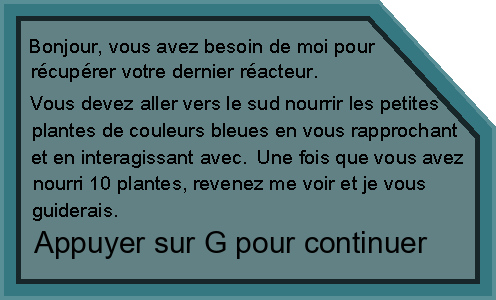
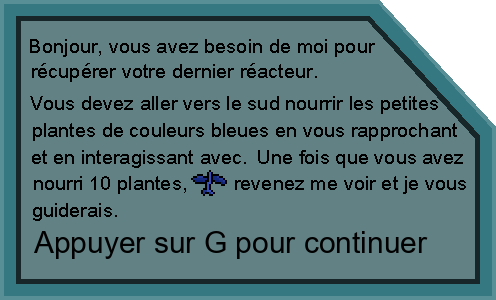
a

Changed region(s): [[0.3931, 0.57, 0.9375, 0.66]]

diff --git a/index.html b/index.html
@@ -77,7 +77,7 @@
                 premierDialogueActif : false,
                 compteurTempsAvantAtaque: 100 ,  
                 tempsAvantAtaque: false,
-                speed: 300,
+                speed: 150,
                 acheterSpeed: false,
                 acheterDash: false,
                 dash: 0,
@@ -280,6 +280,13 @@
             // anim dash
             this.load.spritesheet('animDash','assets/animDash.png',
             { frameWidth: 32, frameHeight: 32 });
+
+            // PNJ intro zone 2
+            this.load.image("PNJIntroZone2", "assets/PNJIntroZone2.png");
+            // collide pnj intro zone 2
+            this.load.image("PNJIntroZone2Collide", "assets/objets/emplacementChangementDeScene/changementScene.png");
+            // textes pnj intro zone 2
+            this.load.image("TexteIntro2eZones", "assets/interface/texte/TexteIntro2eZones.png");
         }
 
         create(){
@@ -840,6 +847,17 @@
 
             this.physics.add.overlap(this.player,this.marchandOverlap,this.parlerMarchand,null,this);
 
+            // pnj intro zone 2
+            this.pnj3 = this.physics.add.image(600, 300, 'PNJIntroZone2');
+            this.pnj3Collide = this.physics.add.image(this.pnj3.x, this.pnj3.y, 'PNJIntroZone2Collide');
+            this.pnj3Collide.body.setSize(32,32)
+            this.pnj3Collide.setPushable(false)
+            this.physics.add.collider(this.player,this.pnj3Collide)
+
+            this.pnj3.body.setSize(48,70)
+            this.pnj3.setOffset(-8,0)
+            this.physics.add.overlap(this.player,this.pnj3,this.parlerPNJ3,null,this);
+
             ///////////////////////////////////////////////////////////////
             /////////////////////////TOUCHES///////////////////////////////
             ///////////////////////////////////////////////////////////////
@@ -1008,11 +1026,17 @@
                 this.vehicule.anims.play('animVehiculeStop', true)
             }
 
-            if (this.quitterVheicule == true){
-                this.coeurEcran.setPosition(306, 161).setScale(0.7);
-                this.monnaieEcran.setPosition(275, 182).setScale(0.4);  
-                this.monnaieTexte.setPosition(286, 174).setScale(0.7)
+            if (this.animVehicule == true){
+                this.coeurEcran.alpha = 0
+                this.monnaieEcran.alpha = 0
+                this.monnaieTexte.alpha = 0
+                this.sabreEcran.alpha = 0
+                this.carteMagnetiqueEcran.alpha = 0
+                this.reacteursEcranBackground.alpha = 0
+                this.reacteur1Ecran.alpha = 0
+            }
 
+            if (this.quitterVheicule == true){
                 this.entrerActif = false
                 this.cameras.main.startFollow(this.player); 
                 this.cameras.main.zoom = 3
@@ -1021,6 +1045,16 @@
                 this.animVehicule = false
                 this.physics.add.collider(this.player, this.vehicule);
                 this.vehicule.setPushable(false)
+            }
+
+            if (this.animVehicule == false){
+                this.coeurEcran.alpha = 1
+                this.monnaieEcran.alpha = 1
+                this.monnaieTexte.alpha = 1
+                this.sabreEcran.alpha = 1
+                this.carteMagnetiqueEcran.alpha = 1
+                this.reacteursEcranBackground.alpha = 1
+                this.reacteur1Ecran.alpha = 1
             }
 
             // timer pour l'invulnérabilité
@@ -1276,7 +1310,6 @@
                     this.dialogue = false
                 }
 
-                console.log(this.dialogue)
 
             this.barreDeVie()
         }
@@ -1396,8 +1429,8 @@
                 if (this.animVehicule == true){
                     this.cameras.main.startFollow(vehicule); 
                     this.cameras.main.zoom = 2
-                    this.player.x = this.vehicule.x
-                    this.player.y = this.vehicule.y
+                    this.player.x = this.vehicule.x - 20
+                    this.player.y = this.vehicule.y - 20
                 }
                 if (vehicule.x > 1200){
                     this.player.x = this.vehicule.x + 160
@@ -1542,7 +1575,7 @@
                         this.deuxiemeDialogue = true
                         this.premierDialogueActif = true
                         this.player.setVelocityX(0)
-                    this.player.setVelocityY(0)
+                        this.player.setVelocityY(0)
                     }
                 }
                 if (this.deuxiemeDialogue == true){
@@ -1613,6 +1646,28 @@
                     this.premierDialogueActif = false
                 }
         }
+
+        parlerPNJ3(player,pnj3){
+            if (this.premierDialogueActif == false){
+                    if (Phaser.Input.Keyboard.JustDown(this.toucheF)) { 
+                        this.dialogue = true
+                        this.TextePNJ3 = this.add.image(this.cameras.main.width/2,this.cameras.main.height/2,"TexteIntro2eZones").setScale(0.35)
+                        this.TextePNJ3.setDepth(11)
+                        this.TextePNJ3.setScrollFactor(0)
+                        this.TextePNJ3.setInteractive()
+                        this.premierDialogueActif = true
+                        this.player.setVelocityX(0)
+                        this.player.setVelocityY(0)
+                    }
+                }
+
+                if (Phaser.Input.Keyboard.JustDown(this.toucheG)) {
+                    this.TextePNJ3.destroy()
+                    this.dialogue = false
+                    this.premierDialogueActif = false
+                }
+        }
+
         /////////////////////////////////////////
         //////////changements de scènes//////////
         /////////////////////////////////////////
